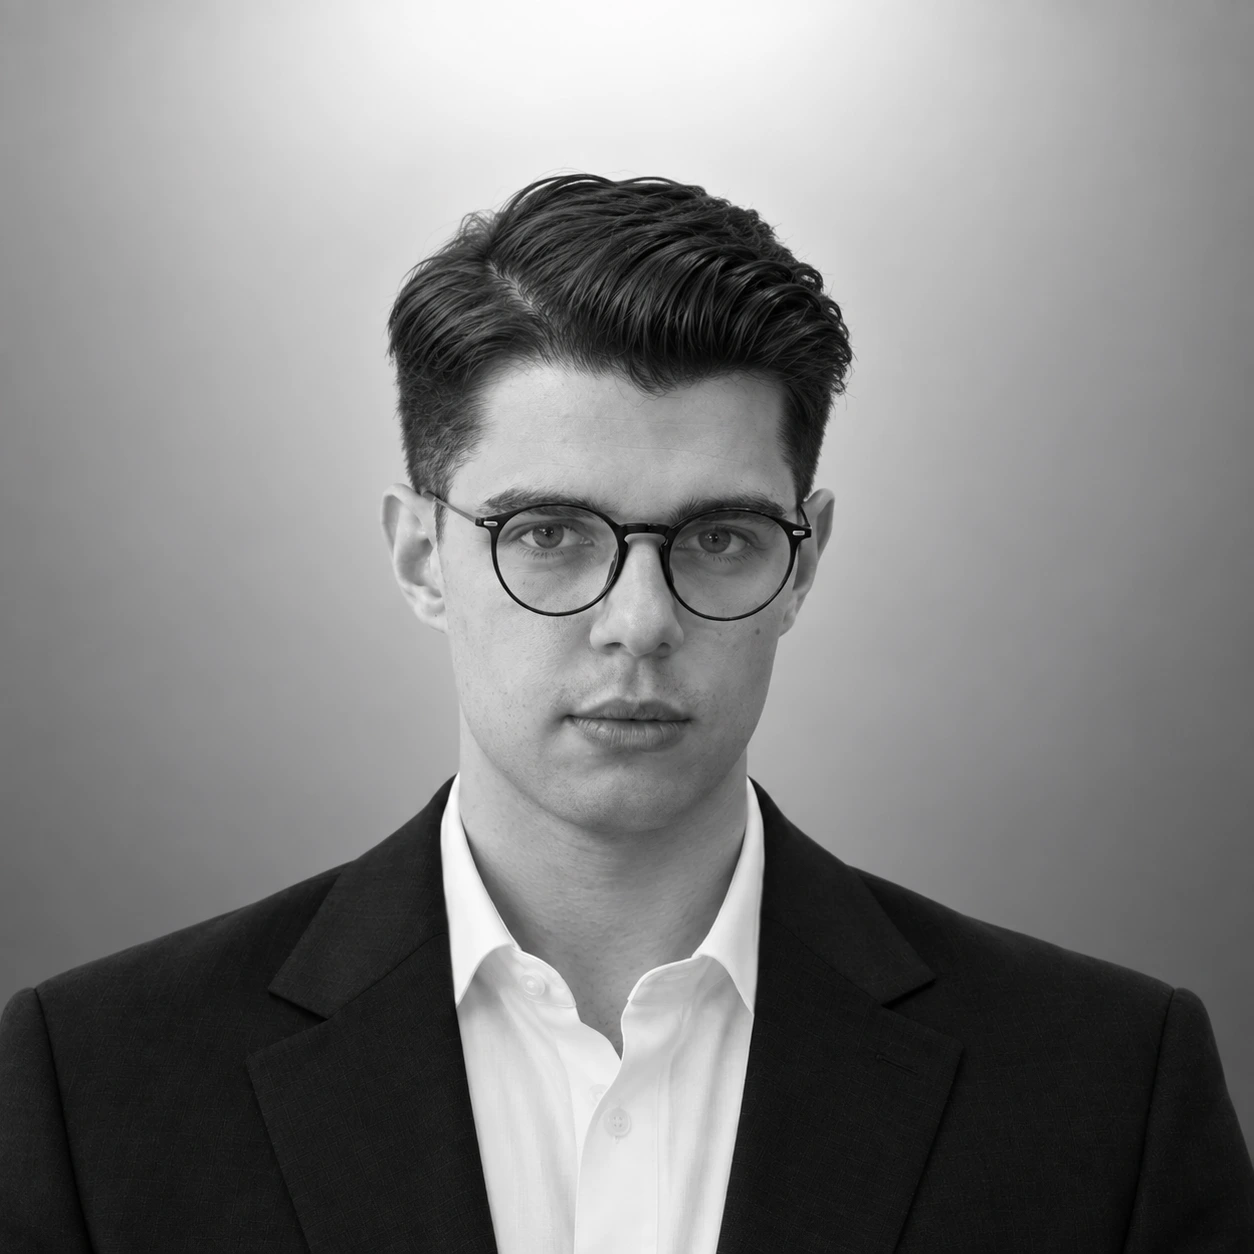
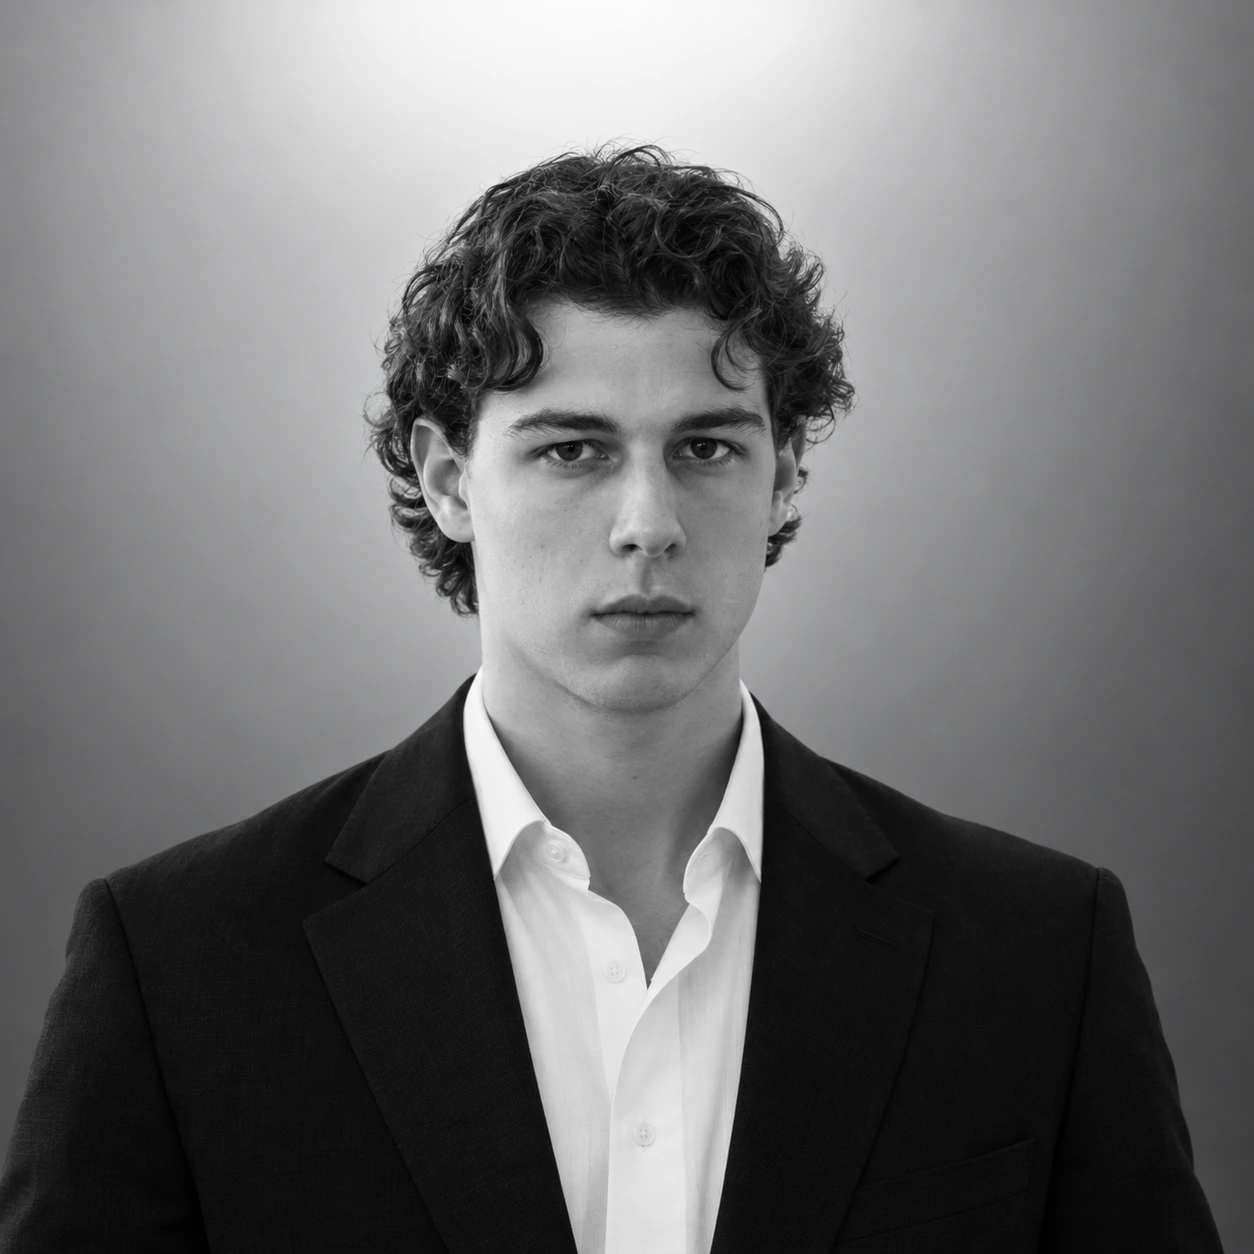
Replace Bruno's portrait with his third frame
Sent as a new sixth team member; it is Bruno. Nothing was added to
content/team.ts on that reading — a name and a job title are factual claims
about an identifiable person, so the entry waited for confirmation rather
than being drafted. Confirmed as Bruno, so this is a straight master swap.

No re-tuning needed. Square-on, dark jacket over a white shirt, head centroid
at 0.491, so faceX 0.5 carried over from his second frame untouched — which
is what a square-on frame buys you, and the contrast with Bernardo's seated
third frame needing all three knobs.

The provenance note in the script is restructured rather than extended: both
he and Bernardo have now been through three generative frames, and the useful
part is the sequence — pass 1 matched the backdrop but not the dress, pass 2
matched the dress, pass 3 was where crop distance turned out to matter too.

Also recorded: LIKENESS IS NOT STABLE ACROSS PASSES. Bruno wore glasses in
his second frame and does not in his third. That is the whole reason
docs/COPY-REVIEW.md asks each subject to sign off on the version that
actually ships rather than on the idea of a generated portrait.

diff --git a/README.md b/README.md
@@ -585,7 +585,9 @@ node scripts/optimize-team-photos.mjs
 
 **Bernardo and Bruno were then regenerated a second time**, later the same day, and the reason generalises: the first pass matched the *backdrop* across the set but not the *dress*. Bernardo came back in a white shirt with a chain and sunglasses, Bruno in a dark open-collar shirt at a three-quarter turn — four studio portraits that still read as four different occasions. Both came back square-on in a dark jacket over a white shirt, which is what Lev and Lucas were already wearing.
 
-**Bernardo was then replaced a third time, and that is why `zoom` is no longer Tatjana's alone.** His third frame is a seated three-quarter shot — leaning on a table, hand to chin — where the other four are tight head-and-shoulders. At `zoom: 1` his head filled about a quarter of the card against their third, the table edge showed along the bottom, and he read as a different shoot again. `zoom: 0.88` with `faceX: 0.43` crops in to head-and-shoulders and puts him back on their scale, chosen against a contact sheet with Bruno beside him rather than by eye alone. It costs no resolution: 0.88 of 1254 still lands above the 640px output.
+**Bruno was replaced a third time as well**, and that one needed no re-tuning — square-on, dark jacket, white shirt, head centroid at 0.491, so `faceX: 0.5` carried straight over. Worth noting for sign-off that likeness is not stable across passes: he wore glasses in his second frame and does not in his third.
+
+**Bernardo was also replaced a third time, and that is why `zoom` is no longer Tatjana's alone.** His third frame is a seated three-quarter shot — leaning on a table, hand to chin — where the other four are tight head-and-shoulders. At `zoom: 1` his head filled about a quarter of the card against their third, the table edge showed along the bottom, and he read as a different shoot again. `zoom: 0.88` with `faceX: 0.43` crops in to head-and-shoulders and puts him back on their scale, chosen against a contact sheet with Bruno beside him rather than by eye alone. It costs no resolution: 0.88 of 1254 still lands above the 640px output.
 
 So the rule that has now held three times: **match the dress, the angle AND the crop distance.** The backdrop alone does not make a set, and neither does the wardrobe.
 
@@ -595,7 +597,7 @@ The **name-to-file mapping for the originals was read, not guessed.** They arriv
 
 **Every output is greyscale**, set in the script rather than by a CSS filter on the page, so what ships is what renders and it keeps applying if a master is replaced.
 
-**Only the horizontal is cropped, except for Tatjana.** The four re-shoots are square, so top and bottom stay whole and `faceX` decides which side loses more of the trim. Lev, Bruno and Lucas sit at `0.5`: the centroid of the dark pixels in each master's hair band (y 15–32%) measures 0.485 / 0.498 / 0.539, so a centred crop puts those three within a couple of percent of the middle. Bernardo is the exception and has now had three different sets of numbers — 0.51, then 0.5, then the zoomed crop above. **Re-measure when a master changes rather than carrying its old number over**; every value in that table has been wrong at least once because someone did. Hers is a wider shot: her head fills about 32% of the frame against the others' ~40%, so at the same crop she read as standing further back than everyone else, which was the last thing breaking the row. **`zoom` exists for her alone.** 0.8 pulls her in to match, and it costs resolution rather than inventing any — the crop lands at 512×640 and `withoutEnlargement` leaves it there, about 6% under the card's 2× DPR ideal. A re-shoot of hers would close that properly; upscaling would only fake it.
+**Only the horizontal is cropped, except for Tatjana.** The four re-shoots are square, so top and bottom stay whole and `faceX` decides which side loses more of the trim. Lev, Bruno and Lucas sit at `0.5`: the centroid of the dark pixels in each master's hair band (y 15–32%) measures 0.485 / 0.491 / 0.539, so a centred crop puts those three within a couple of percent of the middle. Bernardo is the exception and has now had three different sets of numbers — 0.51, then 0.5, then the zoomed crop above. **Re-measure when a master changes rather than carrying its old number over**; every value in that table has been wrong at least once because someone did. Hers is a wider shot: her head fills about 32% of the frame against the others' ~40%, so at the same crop she read as standing further back than everyone else, which was the last thing breaking the row. **`zoom` exists for her alone.** 0.8 pulls her in to match, and it costs resolution rather than inventing any — the crop lands at 512×640 and `withoutEnlargement` leaves it there, about 6% under the card's 2× DPR ideal. A re-shoot of hers would close that properly; upscaling would only fake it.
 
 **If a replaced photo does not appear, the dev image cache is at `.next/dev/cache/images`.** Not `.next/cache/images` — Next 16 moved it, and the old path no longer exists, so deleting it silently does nothing. The optimizer keys on `(url, width, quality)` and the URL does not change when the file behind it does, so re-running this script leaves the dev server serving the previous crop indefinitely. **Restarting `next dev` does not clear it either** — the cache is on disk, not in memory. `rm -rf .next/dev/cache/images` does. The tell is the served image's dimensions: fetch `/_next/image?url=%2Fteam%2F<slug>.webp&w=640&q=75` and compare against the file, because a stale entry keeps the old source's aspect.
 
